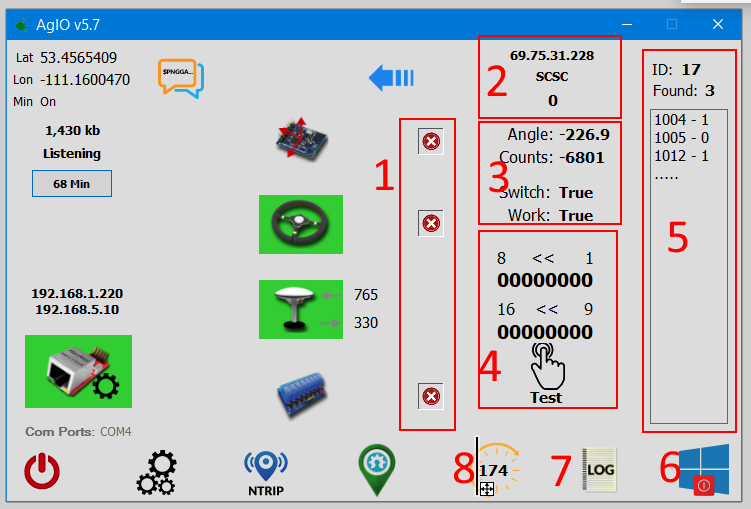
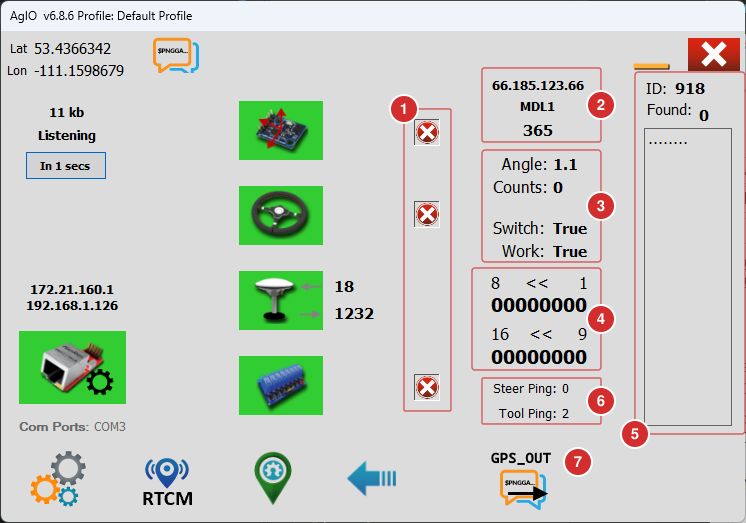
Update the AgIO orientation page for AgIO 6.8.6
Replace the AgIO 5.7 screenshots with 6.8.6 ones, numbered to match
the text, and bring the text in line with what has changed since:
the new bottom bar, the expanded view (pings and GPS_OUT instead of
shutdown, log and timer), the Ethernet dialog (UDP Off, UDP Monitor,
Auto Fill New Subnet), the NTRIP client (mount, Advanced tab) and the
reworked settings and RTCM menus. Each item was checked against the
6.8.6 source code.

Also add the radio and serial port dialogs, which only had one line
each, and fix the "Main Display" section, which has been missing since
the move to Starlight: the horizontal rule right after the front matter
was read as a second front matter block and swallowed the section.

diff --git a/src/content/docs/software/agio-orientation.md b/src/content/docs/software/agio-orientation.md
@@ -5,35 +5,37 @@ sidebar:
   order: 3
 ---
 
----
+_Screenshots from AgIO 6.8.6._
 
 ## Main Display
 
-![AgIO Normal Display](./img/agio.png)
+![The AgIO main window, with numbered areas](./img/agio.png)
 
 This section describes the main AgIO window and its key areas:
 
-1. **RTK Information Area** – Displays real-time kinematic (RTK) status and
-   related information. Specifically:
-   - The amount of data shared during the RTK session (in this instance 1,415
-     Kb)
-   - The status of the connection (in this instance 'listening', but can also be
-     'authorizing' or 'waiting')
-   - The time the connection has been live (in this instance 67 mins). If
-     connecting, it will count down until a connection attempt is made. You can
-     tap this outlined box to pause/halt the RTK connection, and press again to
-     restart it.
+1. **RTK Information Area** – Displays the status of the RTK corrections:
+   - The amount of correction data received in this session.
+   - The status of the connection, for example 'Listening', 'Authorizing',
+     'Waiting' or, for corrections from a serial port, 'RTCM Serial'.
+   - A timer. While connecting, it counts down until the next connection
+     attempt. Tap this outlined box to pause the RTK connection, and tap it
+     again to restart it.
 
-2. **UDP Networking Area** – Displays UDP connection status and associated
-   connected IP addresses. Tap the UDP port icon to configure networking. If the
-   button is not green, a dialog prompts you to enable UDP. Tap the UDP button
-   and confirm. (Linux users: this is where you can change the loopback
-   address.)
+2. **Connections** – Displays the IP addresses of the computer's network
+   connections. Tap the network icon to configure networking. If UDP is off, a
+   dialog asks you to switch it on: tap **UDP Is Off** so it turns green, then
+   tap OK. (Linux users: this is where you can change the loopback address.)
+   Once UDP is on, the icon opens the
+   [Ethernet setup dialog](#ethernet-udp-setup-dialog) instead. Below the icon,
+   **Com Ports** shows a serial port found on the computer, or 'None'. It's
+   updated when AgIO starts and when you open the
+   [serial connections](#serial-connections) dialog.
 
-   ![UDP Networking Dialog](./img/agio-ethernet.png)
+   ![The small Ethernet Configuration dialog for switching UDP on](./img/agio-ethernet.png)
 
-3. **Modules and Status** – Each icon represents a module. Tap an icon to open a
-   dialog for connecting to serial ports.
+3. **Modules and Status** – Each icon represents a module: IMU, steering, GNSS
+   receiver and machine. Tap an icon to open the dialog for connecting to serial
+   ports.
 
    Icon colors indicate status:
    - **Green:** Communicating normally
@@ -44,16 +46,26 @@ This section describes the main AgIO window and its key areas:
 4. **Flyout Button** – Tap to expand and view the full AgIO display (see next
    section).
 
-5. **Position Information** – Tap the icon to view a dialog with all NMEA
-   information.
+5. **Position Information** – Shows the current latitude and longitude. Tap the
+   icon to view a dialog with all NMEA information.
 
-At the bottom is the menu bar. The icon at the far right launches AgOpenGPS.
+6. **Settings Menu** – See [Menus](#menus) below.
+
+7. **RTCM Menu** – Choose where the RTK corrections come from. See
+   [Menus](#menus) below.
+
+8. **AgOpenGPS** – Starts AgOpenGPS, or brings it to the front if it's already
+   running.
+
+Many settings need an AgIO profile. If you're still using the default profile,
+AgIO asks you to create or choose one first (see **Profiles** under
+[Menus](#menus)).
 
 ---
 
 ## Main Display (expanded view)
 
-![AgIO Full Display](./img/agio-full.png)
+![The expanded AgIO main window, with numbered areas](./img/agio-full.png)
 
 The full display provides detailed information and controls:
 
@@ -67,118 +79,177 @@ The full display provides detailed information and controls:
    sections do not change to '1' when activated, check for issues.
 5. **RTK Parsing** – Provides a rough estimation of station ID and sentences
    found. Note: RTK is complex; this is for reference only.
-6. **Shutdown Icon** – Tap to shut down Windows and power off the computer.
-7. **Log Creation** – Generates a log of incoming sentences in the main
-   AgOpenGPS folder.
-8. **Display Timer Reset** – The extended view remains open for 3 minutes, then
-   shrinks to a small view, and then minimizes to the taskbar after another 3
-   minutes. Tap this icon to reset the timer.
+6. **Steer Ping and Tool Ping** – How long the steer module and the machine
+   module took to answer, in milliseconds.
+7. **GPS_OUT** – Starts GPS_Out, a separate program that sends the GNSS
+   position on to other equipment.
 
-To hide the full display, tap the blue arrow again or minimize to the tray at
-the top.
+To hide the full display, tap the blue arrow again.
 
 ---
 
 ## Ethernet (UDP) Setup Dialog
 
-![Ethernet Setup Dialog](./img/agio-ethernet-setup.png)
+![The Ethernet Configuration dialog, with numbered areas](./img/agio-ethernet-setup.png)
 
 This dialog allows you to configure network adapters and subnets:
 
 1. **Hostname** – The unique name for your computer on the network.
 2. **Network Adapters List** – Shows all network adapters, their IP addresses,
    names/types, and packet statistics.
-3. **Adapter Filter** – Filter to show only connected/talking adapters or all
-   adapters.
-4. **Module Connections** – Lists connected modules, their IP addresses, and
-   connection status (green = connected).
-5. **Subnet** – Displays the subnet of the network adapter that sent a message
-   to all connected modules. All devices must be on the same subnet. Tap "fill
-   in" to auto-fill #6.
-6. **Manual Subnet Entry** – Enter and send a new subnet manually.
-7. **Open Windows Network Management** – Launches the Windows Network Management
-   App from Control Panel.
-8. **Current Subnet** – Shows the current subnet set in AgIO.
-9. _(Reserved for future use or additional features)_
-10. _(Reserved for future use or additional features)_
-11. **Set Subnet** – Sets the subnet address for AgIO and sends it to modules.
-    The indicators should turn green if successful.
-12. **Return to Main Display** – Go back to the main AgIO display.
+3. **Adapter Filter** – Filter to show only connected adapters ('Up') or all
+   adapters ('Up + Down').
+4. **Module Scan** – Lists the modules that answered, with their IP addresses
+   and connection status (green = connected).
+5. **Module Subnet** – The subnet the modules reported. All devices must be on
+   the same subnet. Tap **Auto Fill New Subnet** to copy it into the fields
+   below.
+6. **Enter New Subnet Address** – Enter a new subnet manually.
+7. **Set Subnet** – Sets the subnet address for AgIO and sends it to modules.
+   The indicators should turn green if successful.
+8. **Current Subnet** – Shows the current subnet set in AgIO. If no network
+   adapter of the computer is on this subnet, AgIO warns you with 'No Adapter
+   For This Subnet'.
+9. **Network Prop** – Opens the network connections in the Windows Control
+   Panel.
+10. **UDP Off** – Switches UDP off.
+11. **UDP Monitor** – Opens the [UDP Monitor](/software/udp-monitor/).
+
+For a step-by-step guide, see [Ethernet Setup](/software/ethernet-setup/).
 
 ---
 
 ## Serial Connections
 
-![Serial Connections](./img/agio-gps.png)
+![The Connect GPS dialog for serial connections, with numbered areas](./img/agio-gps.png)
 
 This section covers connecting serial devices:
 
-1. **Serial Port Selection** – Choose the serial COM port and baud rate, then
-   tap the green connect button to connect to a serial GPS unit.
-2. **RTK via Serial/USB** – Connect here if using RTK through a serial or USB
-   port.
-3. **Module Connections** – Connect modules here. Plug in one at a time to
-   identify each, then connect.
-4. **Add USB COM Port** – If you connect an additional USB COM port, tap here to
-   add it to the list of available connections.
+1. **GPS** – Choose the serial COM port and baud rate of a serial GNSS receiver,
+   then tap the green connect button.
+2. **RTCM** – If the RTK corrections go to the receiver through a different
+   port than the GPS data, connect that port here.
+3. **Module Connections** – Connect the IMU, steer and machine modules here.
+   Plug in one at a time to identify each, then connect.
+4. **Connection Status** – Shows the port of each connection and the data it
+   receives.
+5. **Rescan Ports** – If you connect an additional USB COM port, tap here to add
+   it to the list of available ports.
 
 ---
 
 ## RTK
 
-This section explains RTK configuration:
+This section explains the NTRIP client, which fetches RTK corrections over the
+internet. Open it from the RTCM menu with **NTRIP**. For a step-by-step guide,
+see [RTK Setup](/software/rtk-setup/).
 
-![RTK Settings](./img/agio-rtk.png)
+![The Source tab of the NTRIP Client Settings, with numbered areas](./img/agio-rtk.png)
 
-1. **NTRIP Toggle** – Enable or disable NTRIP (Networked Transport of RTCM via
+1. **NTRIP On** – Enable or disable NTRIP (Networked Transport of RTCM via
    Internet Protocol).
 2. **Computer Name and Networks** – Displays your computer name and all active
    networks.
-3. **Caster Address** – Enter the IP or URL of your caster website.
-4. **Verify Caster** – Tap to verify the caster site is accessible. The IP will
-   be displayed.
-5. **Caster Credentials** – Enter your caster username and password.
-6. **Get Source Table** – Retrieves a list of available mounts for the caster.
-   Select the appropriate one.
+3. **Caster Address** – Enter the IP or URL of your caster.
+4. **Verify URL or IP** – Tap to verify the caster is accessible. Its IP address
+   is shown above the button.
+5. **Caster Credentials** – Enter your caster username and password. The (o)
+   buttons show what you typed.
+6. **Mount** – The mount point of the base station you use. Tap **Get Source
+   Table** to retrieve the list of mounts the caster offers, and select the
+   appropriate one.
 7. **Caster Port** – The port used by the caster (default is 2101).
+8. **Advanced** – Settings you rarely need: the HTTP version, connecting over
+   plain TCP, and the size of the packets AgIO sends. Leave them unchanged unless
+   your caster needs something else.
 
-![RTK Position Settings](./img/agio-rtk-position.png)
+![The Position tab of the NTRIP Client Settings, with numbered areas](./img/agio-rtk-position.png)
 
-1. **Manual Fix Entry** – Enter the current fix manually. Select manual or use
-   GPS Fix.
-2. **Use Current GPS Fix** – Tap here to fill in the manual fix entry with the
-   current GPS fix.
-3. **RTK Output Method** – Select whether to send RTK via serial or UDP, and
-   specify the port. Disable unused methods.
-4. **GGA Interval** – Set how often a GGA sentence is sent to the caster. More
+1. **Manual Fix** – A position to send to the caster when you don't want to use
+   the GNSS position.
+2. **Use GPS Fix / Use Manual Fix** – Choose which position AgIO sends to the
+   caster.
+3. **Current GPS Fix** – The current GNSS position. Tap **Send To Manual Fix** to
+   copy it into the manual fix.
+4. **Send To GPS Using** – Select whether to send RTK to the receiver via serial
+   or UDP, and specify the UDP port. Disable unused methods.
+5. **GGA Interval** – Set how often a GGA sentence is sent to the caster. More
    frequent updates use more data. Set this to 0 to disable.
 
 ---
 
 ## Menus
 
-### AgIO Settings
+### Settings Menu
 
-![AgIO Menu](./img/agio-menu.png)
+![The AgIO settings menu](./img/agio-menu.png)
 
-1. **Save Profile** – Save all AgIO settings, including RTK settings.
-2. **Load Profile** – Load a previously saved profile.
-3. **UDP Monitor** – View UDP packets sent and received by AgIO, including PGNs,
-   NTRIP, and NMEA strings.
-4. **Serial Monitor** – Connect to any serial port and monitor its activity.
-   Useful for modules running on UDP.
-5. **Ethernet Setup** – Opens the dialog to enable or disable UDP. Only change
-   the loopback address if you are using Linux or understand the implications.
-   (Windows loopback settings are not supported.)
-6. **Device Manager** – Opens the Windows Control Panel applet for device
-   hardware management.
+1. **Advanced Settings** – Start AgIO minimized, pop up AgIO when there's a
+   warning, and start GPS_Out automatically.
+2. **Profiles** – Create, open and save AgIO profiles. A profile stores all AgIO
+   settings, including the RTK settings.
+3. **Log Viewer** – Shows the AgIO event log.
+4. **UDP Monitor** – View UDP packets sent and received by AgIO, including PGNs,
+   NTRIP, and NMEA strings. See [UDP Monitor](/software/udp-monitor/).
+5. **Serial Monitor** – Connect to any serial port and monitor its activity.
+   See [Serial Monitor](/software/serial-monitor/).
+6. **AgDiag** – Starts AgDiag, a separate diagnostics program.
+7. **Module Sim** – Starts ModSim, a separate program that simulates the
+   modules.
+8. **Linux Users** – Opens the dialog for switching UDP on and changing the
+   loopback address. Only change the loopback address if you are using Linux or
+   understand the implications.
+9. **Device Manager** – Opens the Windows Device Manager.
+10. **ISOBUS** – Settings for ISOBUS implement control: the CAN bus adapter and
+    channel. This needs the separate
+    [AOG-TaskController](https://github.com/GwnDaan/AOG-TaskController).
 
-### NTRIP Settings
+### RTCM Menu
 
-![NTRIP Menu](./img/agio-menu-ntrip.png)
+![The AgIO RTCM menu](./img/agio-menu-ntrip.png)
 
-1. **NTRIP from the Internet** – Configure settings such as caster address,
-   mount, username, and password.
-2. **NTRIP via Radio** – Opens a dialog to configure RTK radio systems.
-3. **NTRIP via Serial** – Opens a dialog for RTK via serial input (e.g., phone
-   USB or external radio with serial output).
+1. **NTRIP** – Corrections from the internet: caster address, mount, username,
+   and password. See [RTK](#rtk) above.
+2. **Radio (Not XBee)** – Corrections from a radio modem. See
+   [Radio](#radio) below.
+3. **Serial Port** – Corrections arriving on a serial port, e.g. from a phone
+   over USB or an external radio with a serial output. See
+   [Serial Port](#serial-port) below.
+
+Only one of them can be on at a time.
+
+### Radio
+
+![The Radio Settings dialog in AgIO](./img/agio-ntrip-radio.png)
+
+For RTK corrections from a radio modem connected to the tablet.
+
+1. **Port and Baud** – The serial port of the radio modem and its baud rate.
+   Connect and disconnect with the plug buttons next to them. The magnifying
+   glass on the right scans for ports again.
+2. **Channels** – Your list of radio channels, each with an ID, a name and a
+   frequency. If you enter the location of a channel's base station, the list
+   also shows how far away it is. Add, edit and delete channels with the buttons
+   on the right.
+3. **Set channel** (the arrow at the top right) – Sends the frequency of the
+   selected channel to the radio modem.
+4. **Command and Response** – Type any command for the radio modem, send it with
+   the arrow next to it, and see its reply.
+5. **Radio** – Uses the radio as the correction source. Switching it on switches
+   NTRIP from the internet off.
+
+### Serial Port
+
+![The Serial Pass Thru Configuration dialog in AgIO](./img/agio-ntrip-serial.png)
+
+For RTK corrections that arrive on a serial port, for example from an external
+radio with a serial output. AgIO passes them on to the GNSS receiver. For a
+step-by-step guide, see [RTK Setup](/software/rtk-setup/).
+
+1. **Port and Baud** – The serial port the corrections arrive on, and its baud
+   rate. Connect and disconnect with the plug buttons; the magnifying glass
+   scans for ports again.
+2. **Send NTRIP To GPS Using** – How AgIO passes the corrections on to the
+   receiver: over a serial port, or over UDP to the given port.
+3. **Serial Pass On** – Switches the pass-through on. NTRIP from the internet
+   and the radio have to be off first.
